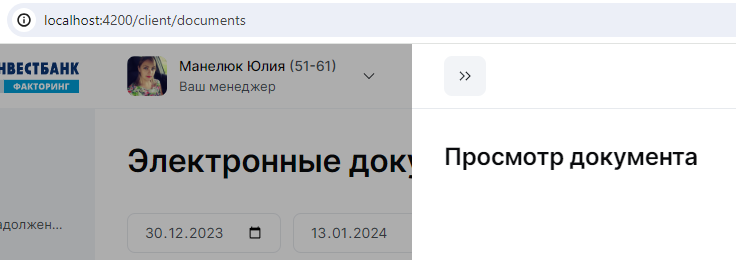
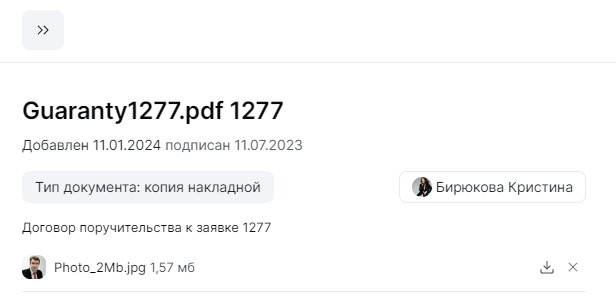
add: file-cell.comp image preview

diff --git a/src/app/shared/ui-kit/file-cell/file-cell.component.ts b/src/app/shared/ui-kit/file-cell/file-cell.component.ts
@@ -21,7 +21,7 @@ export class FileCellComponent {
 	public content: FileCellContent
 	public uploadSub: Subscription
 	progress: number = 0
-	@Input() imageUrl = './assets/images/imageDoc.png'
+	@Input() imageUrl: string | ArrayBuffer = './assets/images/imageDoc.png'
 
 	constructor(private http: HttpClient, private filesService: FileService) {}
 
@@ -47,6 +47,14 @@ export class FileCellComponent {
 
 	onChange(event: any) {
 		const file: File = event.target.files[0]
+
+		if (event.target.files && file) {
+			const reader = new FileReader()
+			reader.readAsDataURL(file)
+			reader.onload = event => {
+				this.imageUrl = event.target.result
+			}
+		}
 
 		if (file) {
 			this.status = 'initial'

diff --git a/src/styles/components/_file-cell.scss b/src/styles/components/_file-cell.scss
@@ -9,6 +9,7 @@
 	align-items: center;
 	border-radius: 8px;
 	background: var(--wgr-secondary);
+	overflow: hidden;
 }
 @mixin file-cell-m {
 	& .upload-icon {
